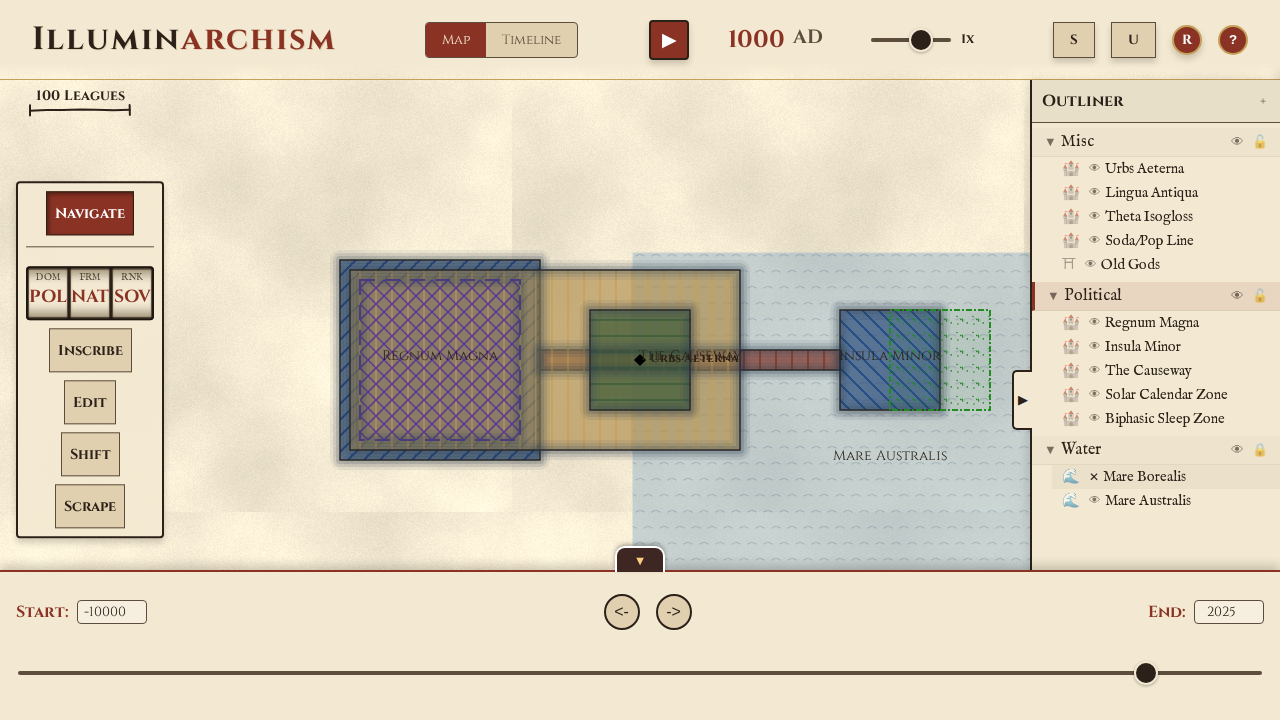
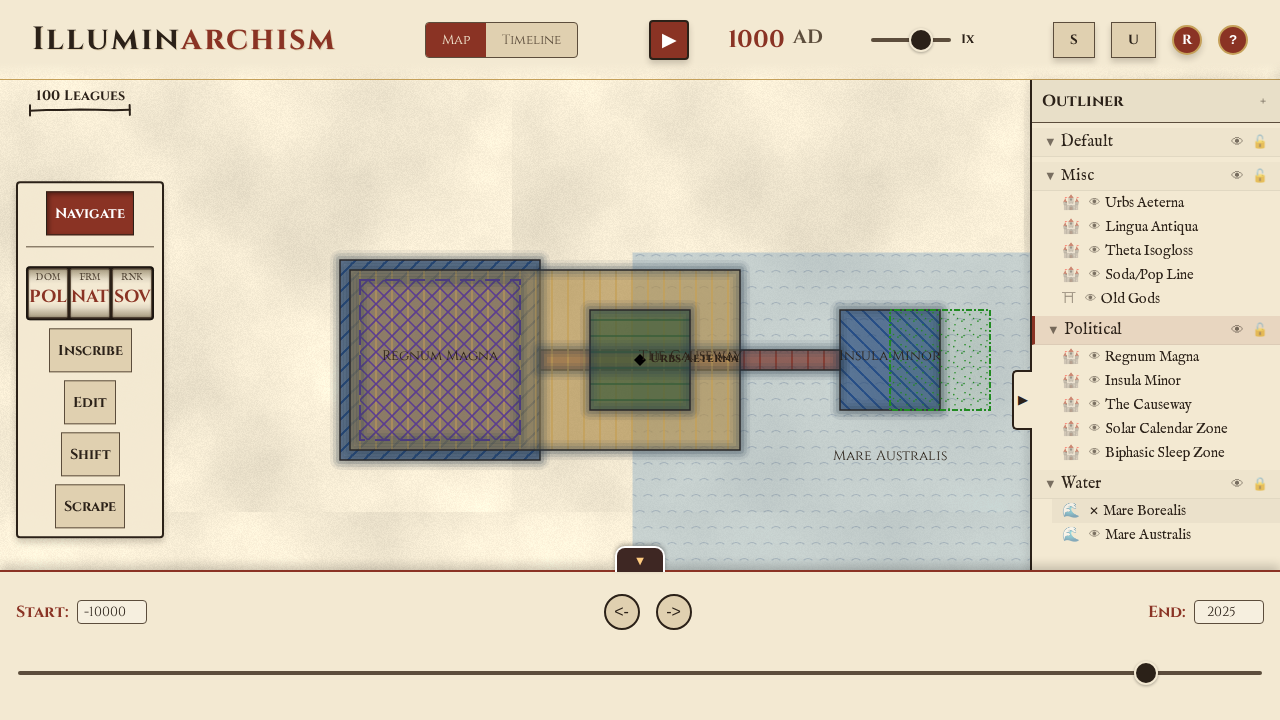
Fix Layer Manager Build and Logic Issues
- Added 'Default' layer to `initData` in `src/main.js` to ensure legacy/unassigned entities are not orphaned in the UI.
- Updated `src/io/AtlasLoader.js` to handle potential JSON parsing of strings and robust layer restoration.
- Refactored `LayerManager` CSS injection to use `src/styles.css` consistently, ensuring cleaner build output.
- Verified build process locally to address potential environment discrepancies causing CI failure.

Changed region(s): [[0.8125, 0.1833, 1.0, 0.7639], [0.7188, 0.4583, 0.7812, 0.55], [0.9688, 0.3972, 1.0, 0.4889]]

diff --git a/src/main.js b/src/main.js
@@ -148,7 +148,8 @@ export default class IlluminarchismApp {
         this.layers = [
             { id: 'layer_water', name: 'Water', visible: true, locked: true, order: 0, expanded: true },
             { id: 'layer_political', name: 'Political', visible: true, locked: false, order: 1, expanded: true },
-            { id: 'layer_misc', name: 'Misc', visible: true, locked: false, order: 2, expanded: true }
+            { id: 'layer_misc', name: 'Misc', visible: true, locked: false, order: 2, expanded: true },
+            { id: 'default', name: 'Default', visible: true, locked: false, order: 3, expanded: true }
         ];
         this.activeLayerId = 'layer_political';
         if (this.layerManager) this.layerManager.render();
